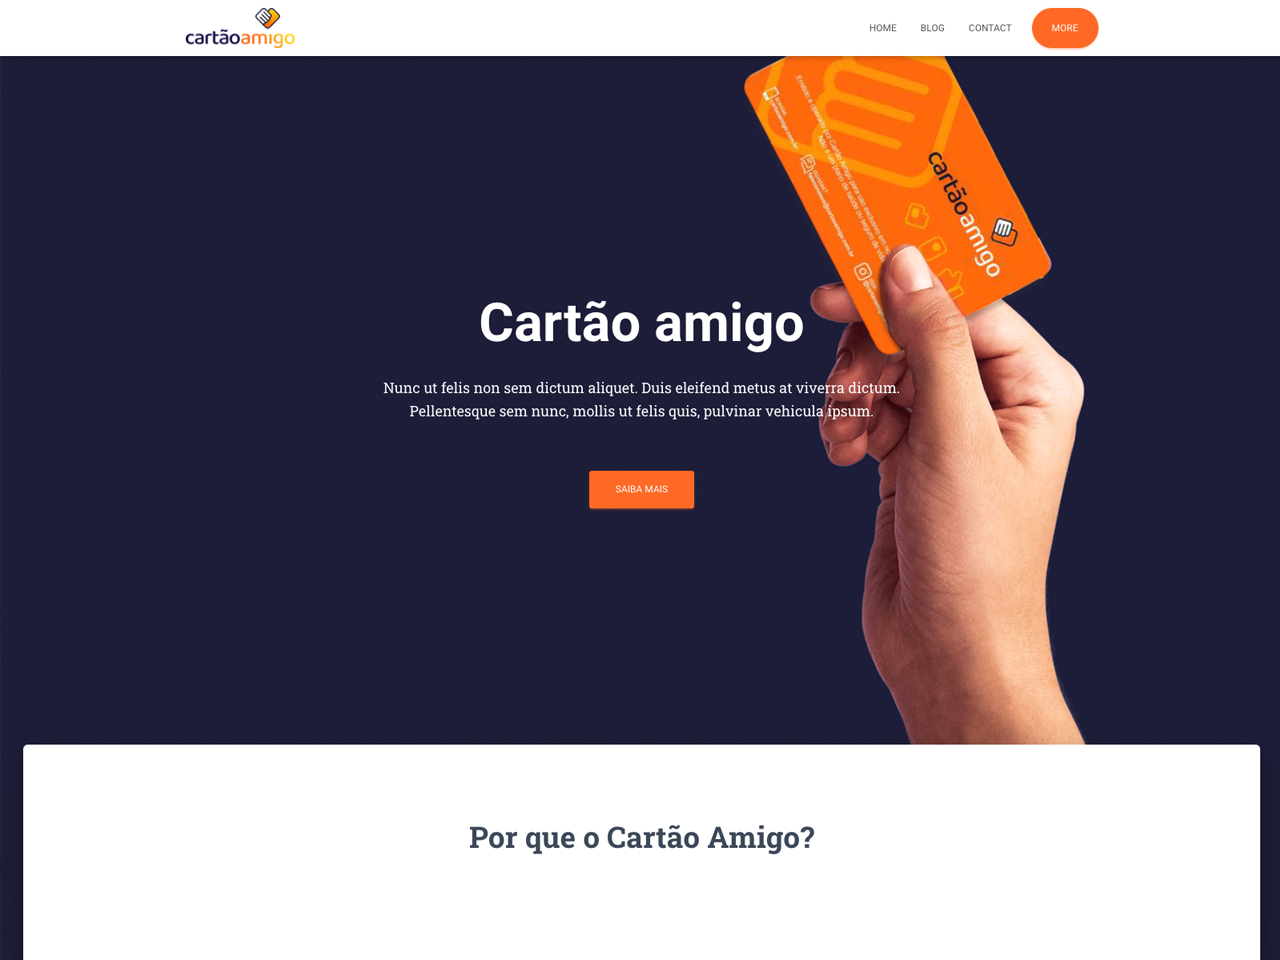
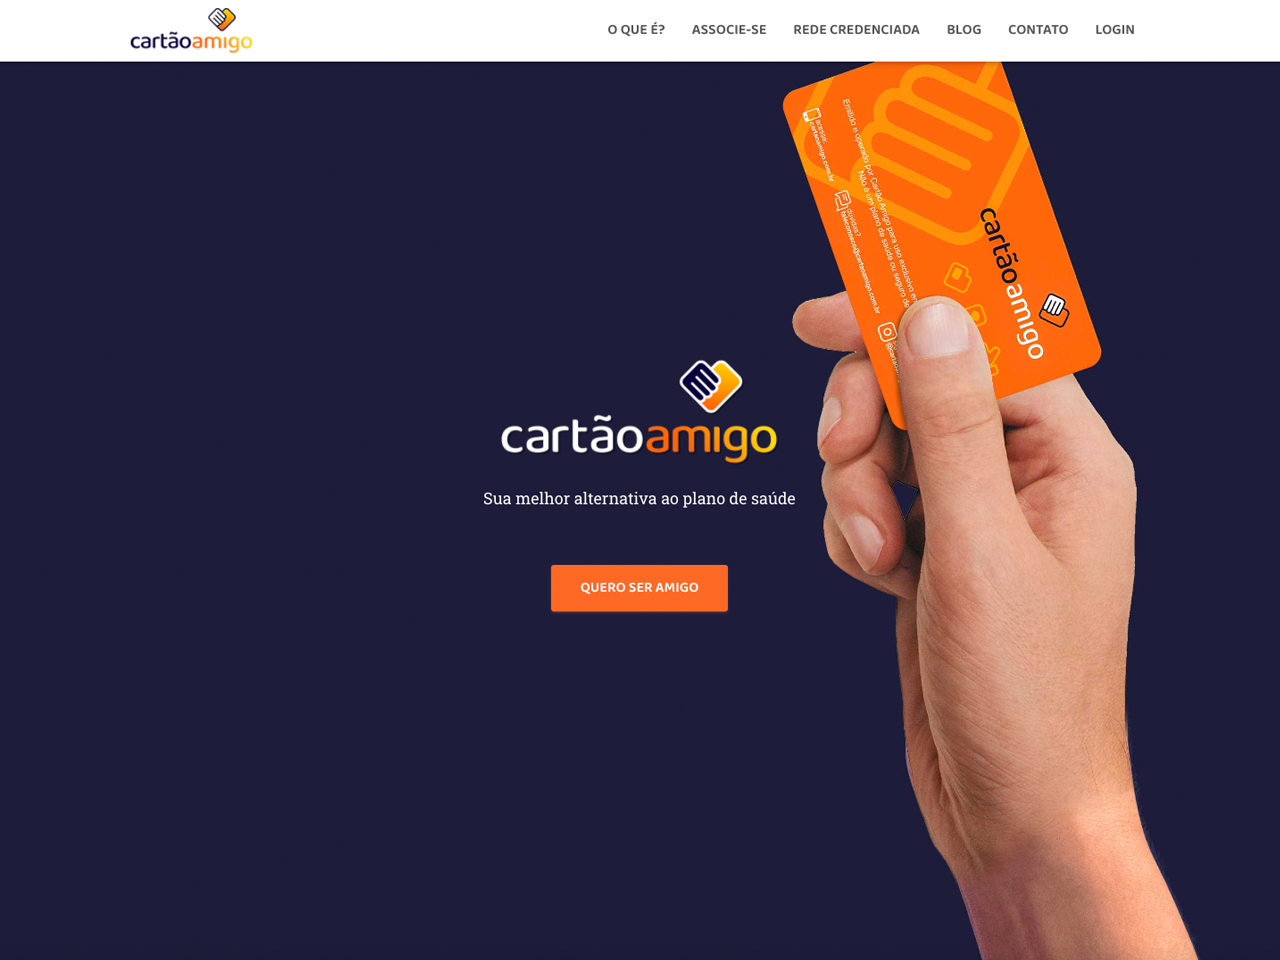
v0.8.0 - cria formulário de login flutuante #13

diff --git a/wp-content/themes/hestia-child/style.css b/wp-content/themes/hestia-child/style.css
@@ -5,7 +5,7 @@ Description: This is a custom child theme I have created.
 Author: ThemeIsle    
 URI: https://www.themeisle.com/    
 Template: hestia  
-Version: 0.7.0
+Version: 0.8.0
 */
 
 @font-face {
@@ -16,6 +16,12 @@ Version: 0.7.0
   font-weight: normal;
   font-style: normal;
 }
+
+:root {
+  --azul: #0d0540;
+  --laranja: #fd6925;
+}
+
 
 .main {
   max-width: 1770px;
@@ -68,11 +74,11 @@ h5,
 .woocommerce ul.products[class*="columns-"] li.product-category h2,
 .woocommerce ul.products[class*="columns-"] li.product-category h2 a,
 .woocommerce ul.products[class*="columns-"] li.product-category h2 a:hover {
-  color: #0d0540;
+  color: var(--azul);
 }
 
 .description {
-  color: #fd6925;
+  color: var(--laranja);
 }
 
 section.hestia-features {
@@ -92,6 +98,10 @@ section.hestia-about {
 
 section.hestia-about.section-image:after {
   background-color: transparent;
+}
+
+.home section {
+  padding: 44px 0 64px !important;
 }
 
 /* == TIPOGRAFIA == */
@@ -119,14 +129,6 @@ span.riscado {
   text-decoration: line-through;
 }
 
-/*
-.carousel h1.hestia-title span {
-  background: linear-gradient(to right, #ff6600, #ffd900);
-  -webkit-background-clip: text;
-  -webkit-text-fill-color: transparent;
-}
-*/
-
 /* == Flex layout == */
 
 .fx-row {
@@ -151,7 +153,6 @@ span.riscado {
 
 nav.navbar-transparent div#main-navigation ul.nav.navbar-nav li a,
 nav.navbar-transparent div#main-navigation ul.nav.navbar-nav li a:hover {
-  color: #FFF;
   opacity: 1;
 }
 
@@ -160,7 +161,6 @@ nav.navbar-transparent div#main-navigation ul.nav.navbar-nav li a:hover {
 
 section.hestia-simulator {
   text-align: center;
-  padding: 75px 0;
 }
 
 .hestia-simulator .input-group {
@@ -286,7 +286,7 @@ section.hestia-simulator div.mais-ou-menos {
   height: 32px;
   border-radius: 32px;
   box-shadow:  2px 2px 0 rgb(253 105 37 / 14%), 0 3px 1px -2px rgb(253 105 37 / 20%), 0 1px 5px 0 rgb(253 105 37 / 12%);
-  background-color: #fd6925;
+  background-color: var(--laranja);
   color: #FFF;
   cursor: pointer;
   font-size: 28px;
@@ -360,7 +360,7 @@ section.hestia-location .container {
 }
 
 section.hestia-location h2 {
-  background-color: #fd6925;
+  background-color: var(--laranja);
   color: #fff;
   padding: 16px 32px;
   border-radius: 32px;
@@ -385,10 +385,6 @@ section.hestia-location h2 {
 
 /* == REGISTER == */
 
-section.hestia-register {
-  padding-bottom: 32px;
-}
-
 section.hestia-register h4.card-title {
   font-size: 24px;
   line-height: 30px;
@@ -397,7 +393,7 @@ section.hestia-register h4.card-title {
 }
 
 section.hestia-register p.preco {
-  color: #fd6925;
+  color: var(--laranja);
   padding: 0 12px;
   font-size: 28px;
   font-weight: bold;
@@ -434,13 +430,12 @@ section.hestia-register h3.description {
 /* == PARTNERS == */
 
 section.hestia-partners {
-  background-color: #0d0540;
-  padding: 32px 0;
+  background-color: var(--azul);
 }
 
 section.hestia-partners h2.hestia-title {
   text-align: center;
-  color: #fd6925;
+  color: var(--laranja);
 }
 
 section.hestia-partners .partners {
@@ -501,18 +496,67 @@ section.hestia-contact h4.card-title {
     margin-left: 5%;
     margin-right: 5%;
   }
+
 }
 
 /* Social Feed */
-
-.hestia-social-feed {
-  padding: 32px 0;
-}
 
 section.hestia-social-feed h2.hestia-title {
   display: flex;
   justify-content: center;
   align-items: center;
+}
+
+section.hestia-social-feed .sb_instagram_header {
+  display: none;
+}
+
+/* Login Form */
+
+form#ca-login-form {
+  display: none;
+  width: 300px;
+  z-index: 999999999;
+}
+
+.ca-login-form-content {
+  background-color: #FFF;
+  padding: 16px;
+  display: flex;
+  flex-direction: column;
+  justify-content: space-between;
+  align-items: stretch;
+  border-radius: 16px;
+}
+
+.ca-login-form-content .btn-group.btn-group-sm a.btn.btn-primary {
+  padding: 7px 15px !important;
+  font-size: 14px;
+}
+
+.ca-login-form-content .links {
+  text-align: center;
+  padding-top: 16px;
+  color: var(--laranja);
+}
+
+#ca-modal {
+  position: fixed;
+  width: 100%;
+  height: 100%;
+  background-color: rgba(0, 0, 0, 0.3);
+  top: 0;
+  left: 0;
+  display: none;
+}
+
+#ca-modal .ca-modal-container {
+  display: flex;
+  flex-direction: column;
+  justify-content: center;
+  align-items: center;
+  height: 100%;
+  width: 100%;
 }
 
 /* Somente para desenvolvimento */

diff --git a/wp-content/themes/hestia-child/scripts.js b/wp-content/themes/hestia-child/scripts.js
@@ -22,6 +22,34 @@
     /* Blog */
     $('article.card.card-blog').attr('data-aos', 'fade-up');
 
+    /* Login form */
+    $('li.menu-item a[title="Login"], .ca-modal-container').on('click', () => {
+        const display = $('#ca-modal').css('display');
+        if (display == 'none') {
+            $('#ca-modal').css('display', 'block')
+            $('#ca-login-form').slideDown();        
+            // $('#ca-modal').show('fast', () => {
+            //     $('#ca-login-form').slideDown();        
+            // });
+        } else {
+            $('#ca-login-form').slideUp(() => {
+                $('#ca-modal').css('display','none');
+                // $('#ca-modal').hide('fast');
+            });        
+        }
+
+        if ( $( '.navbar .navbar-collapse' ).hasClass( 'in' ) ) {
+            $( '.navbar .navbar-collapse.in' ).removeClass( 'in' );
+        }
+
+        if ( $( 'body' ).hasClass( 'menu-open' ) ) {
+            $( 'body' ).removeClass( 'menu-open' );
+            $( '.navbar-collapse' ).css( 'height', '0' );
+            $( '.navbar-toggle' ).attr( 'aria-expanded', 'false' );
+        }
+
+    })
+
     AOS.init({
         easing: 'ease-in-out-sine',
         once: false,

diff --git a/wp-content/themes/hestia-child/assets/js/mapa.js b/wp-content/themes/hestia-child/assets/js/mapa.js
@@ -8,7 +8,6 @@
 
     function pins() {
         let visivel = $('#location').visible(true, false, 'vertical');
-        console.log('visivel: ', visivel);
         // Verifica se a div #location está visível na viewport
         if( visivel ){
             /* Insere diversos PINs na sessão Location */

diff --git a/wp-content/themes/hestia-child/functions.php b/wp-content/themes/hestia-child/functions.php
@@ -1,6 +1,6 @@
 <?php
 
-define('VERSION', '0.7.0');
+define('VERSION', '0.8.0');
 
 if ( !defined( 'ABSPATH' ) ) exit;
 
@@ -135,4 +135,32 @@ function bt_blog(){
 	echo '</div>';
 }
 add_action( 'hestia_bottom_blog_section_content_hook', 'bt_blog' );
+
+/**
+ * Insere um botão para a página de posts
+ * logo abaixo da sessão Blog da página inicial
+ *
+ * @since 1.0.0
+ */
+function login_form(){
+	echo '<div id="ca-modal">';
+	echo '	<div class="ca-modal-container">';
+	echo '		<form id="ca-login-form">';
+	echo '			<div class="ca-login-form-content">';
+	echo '				<div class="input-group">
+							<input type="text" name="login" class="form-control" placeholder="Login" aria-describedby="Login">
+							<input type="password" name="senha" class="form-control" placeholder="Senha" aria-describedby="Login">
+		  				</div>';
+	echo '				<div class="btn-group btn-group-sm text-center">';
+	echo '					<a href="/blog" title="Entrar" class="btn btn-primary">Entrar</a>';
+	echo '				</div>';
+	echo '				<div class="links">';
+	echo '					[ <a href="/">ainda não sou cadastrado</a> ]<br />[ <a href="/">esqueci minha senha</a> ]';
+	echo '				</div>';
+	echo '			</div>';
+	echo '		</form>';
+	echo '	</div>';
+	echo '</div>';
+}
+add_action( 'hestia_after_footer_hook', 'login_form' );
 

diff --git a/wp-content/themes/hestia-child/inc/views/front-page/class-hestia-social-feed-section.php b/wp-content/themes/hestia-child/inc/views/front-page/class-hestia-social-feed-section.php
@@ -36,7 +36,7 @@ class Hestia_Social_Feed_Section extends Hestia_Abstract_Main {
 							</h2>
                         </div>
                     </div>
-					<?php echo do_shortcode('[ap_instagram_slider]'); ?>
+					<?php echo do_shortcode('[instagram-feed]'); ?>
 				</div>
 			</section>
 			<?php
